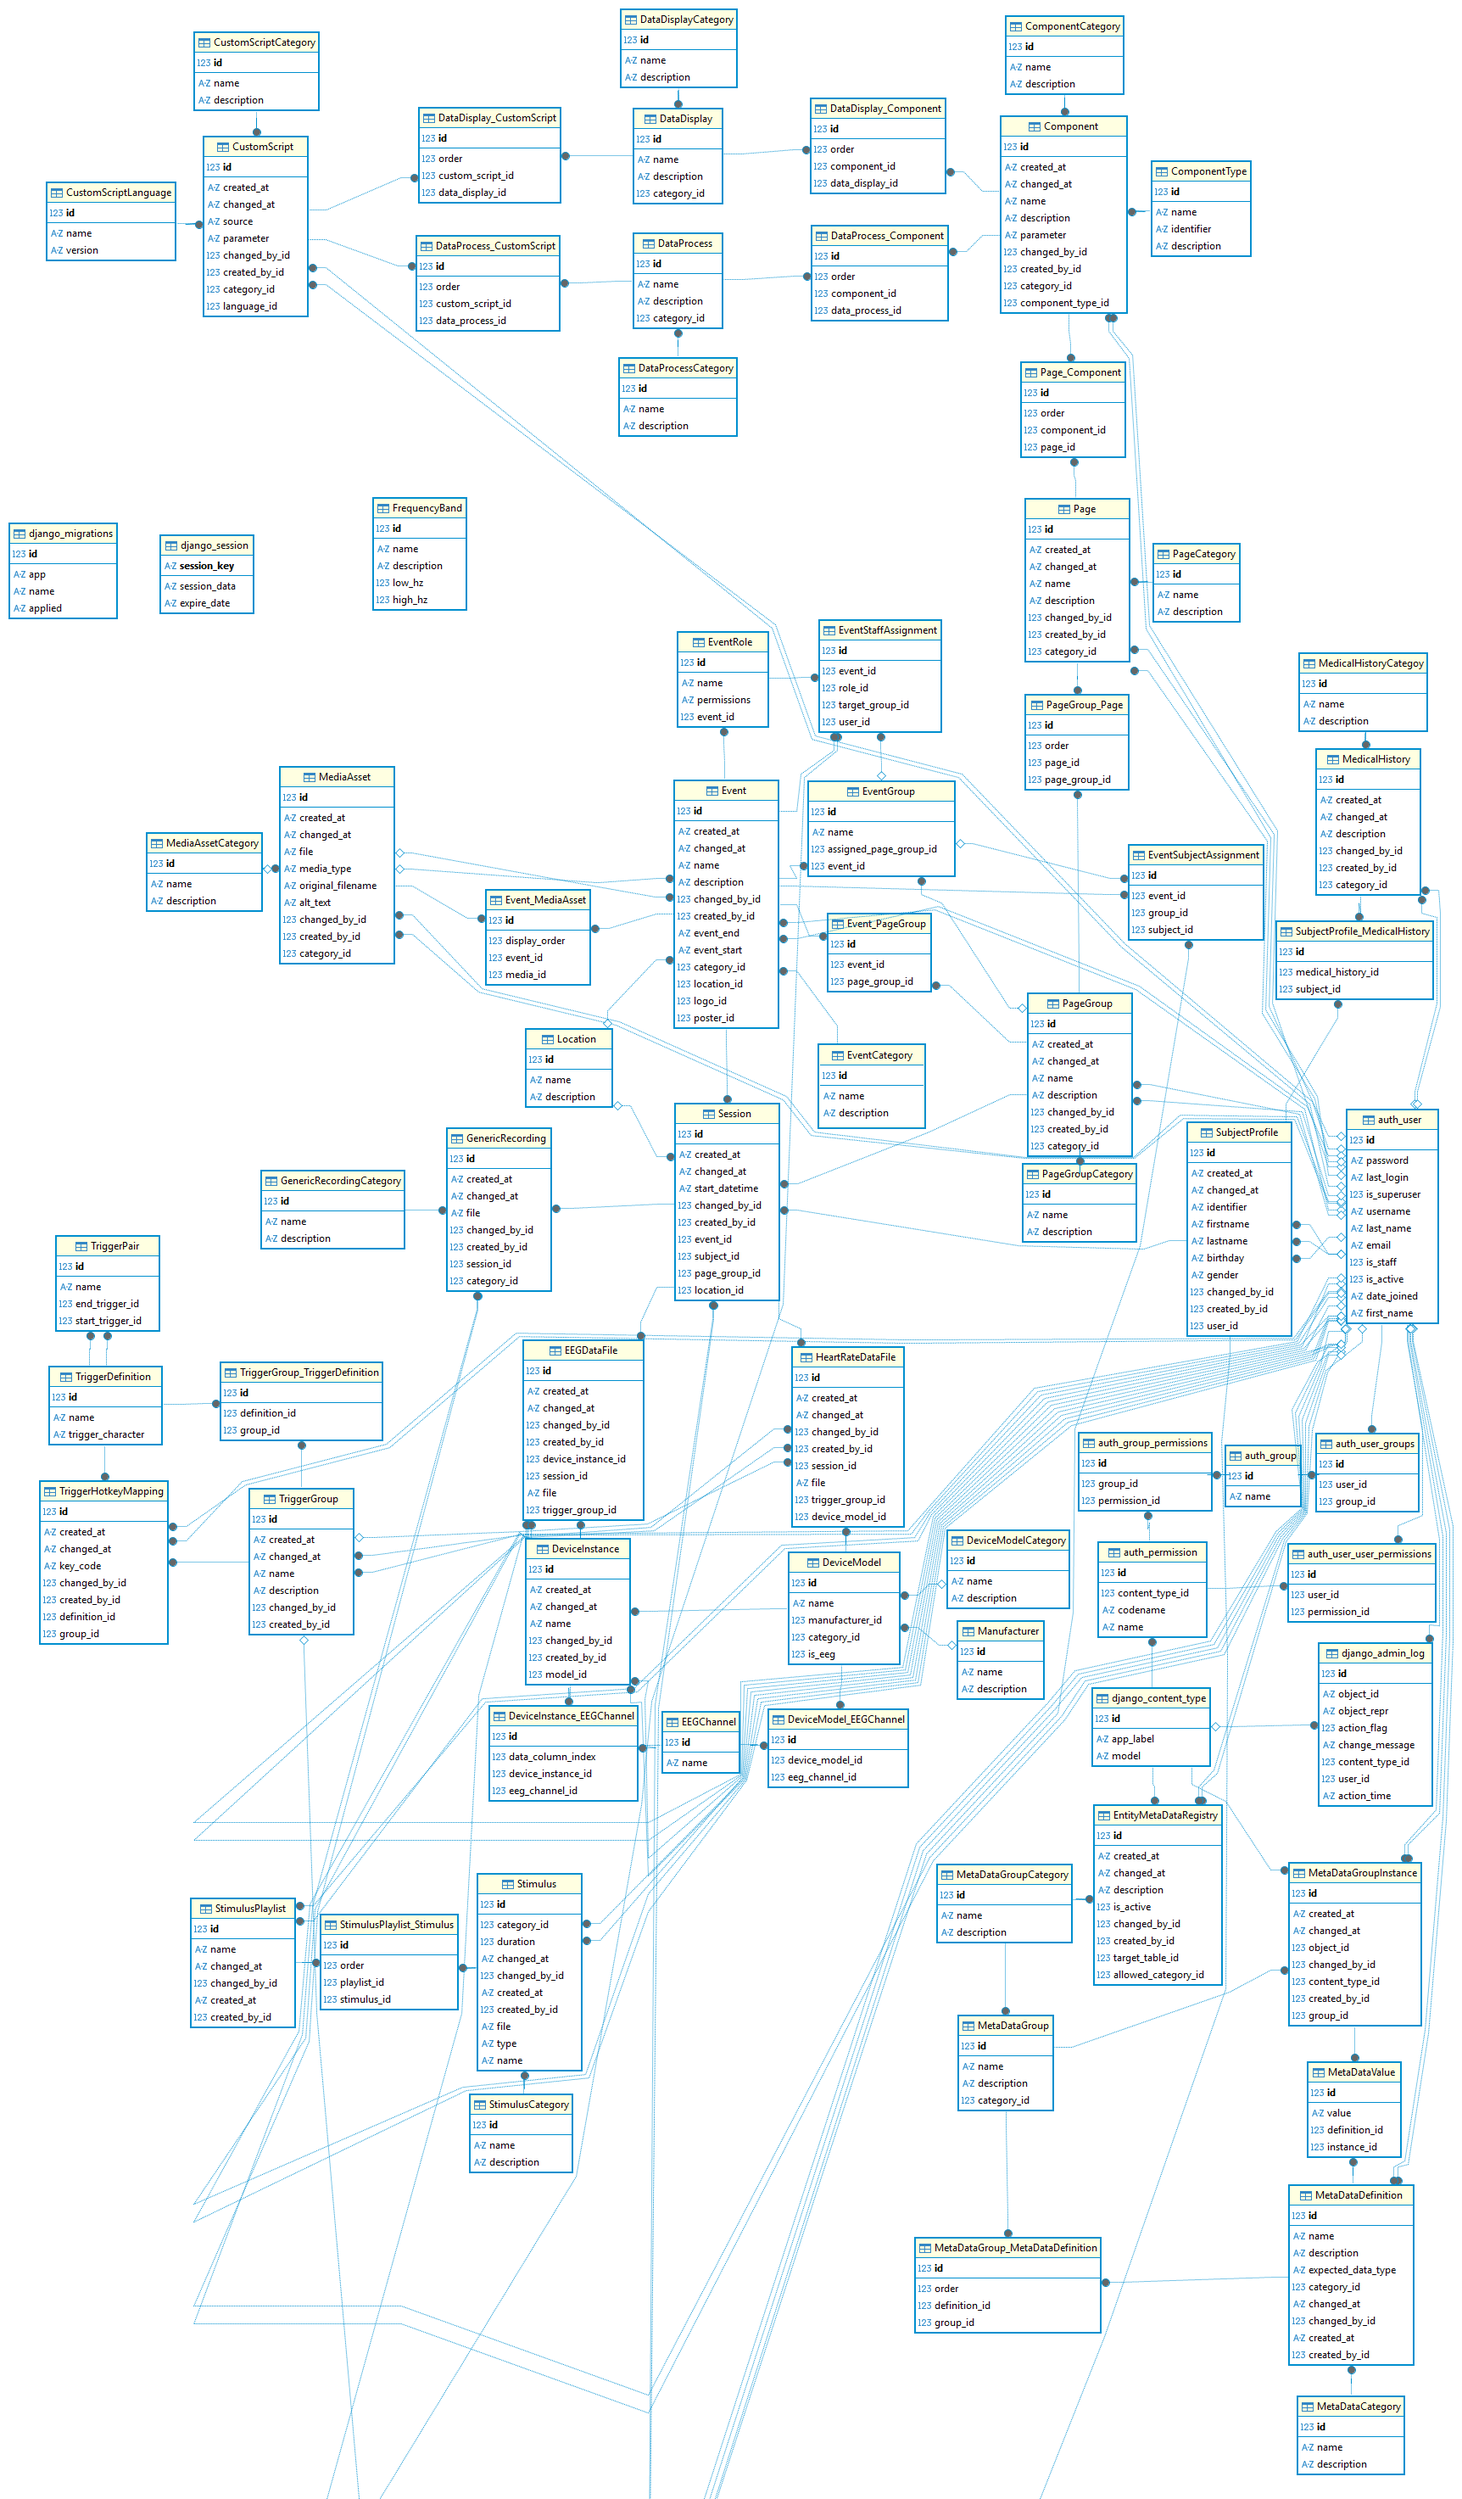
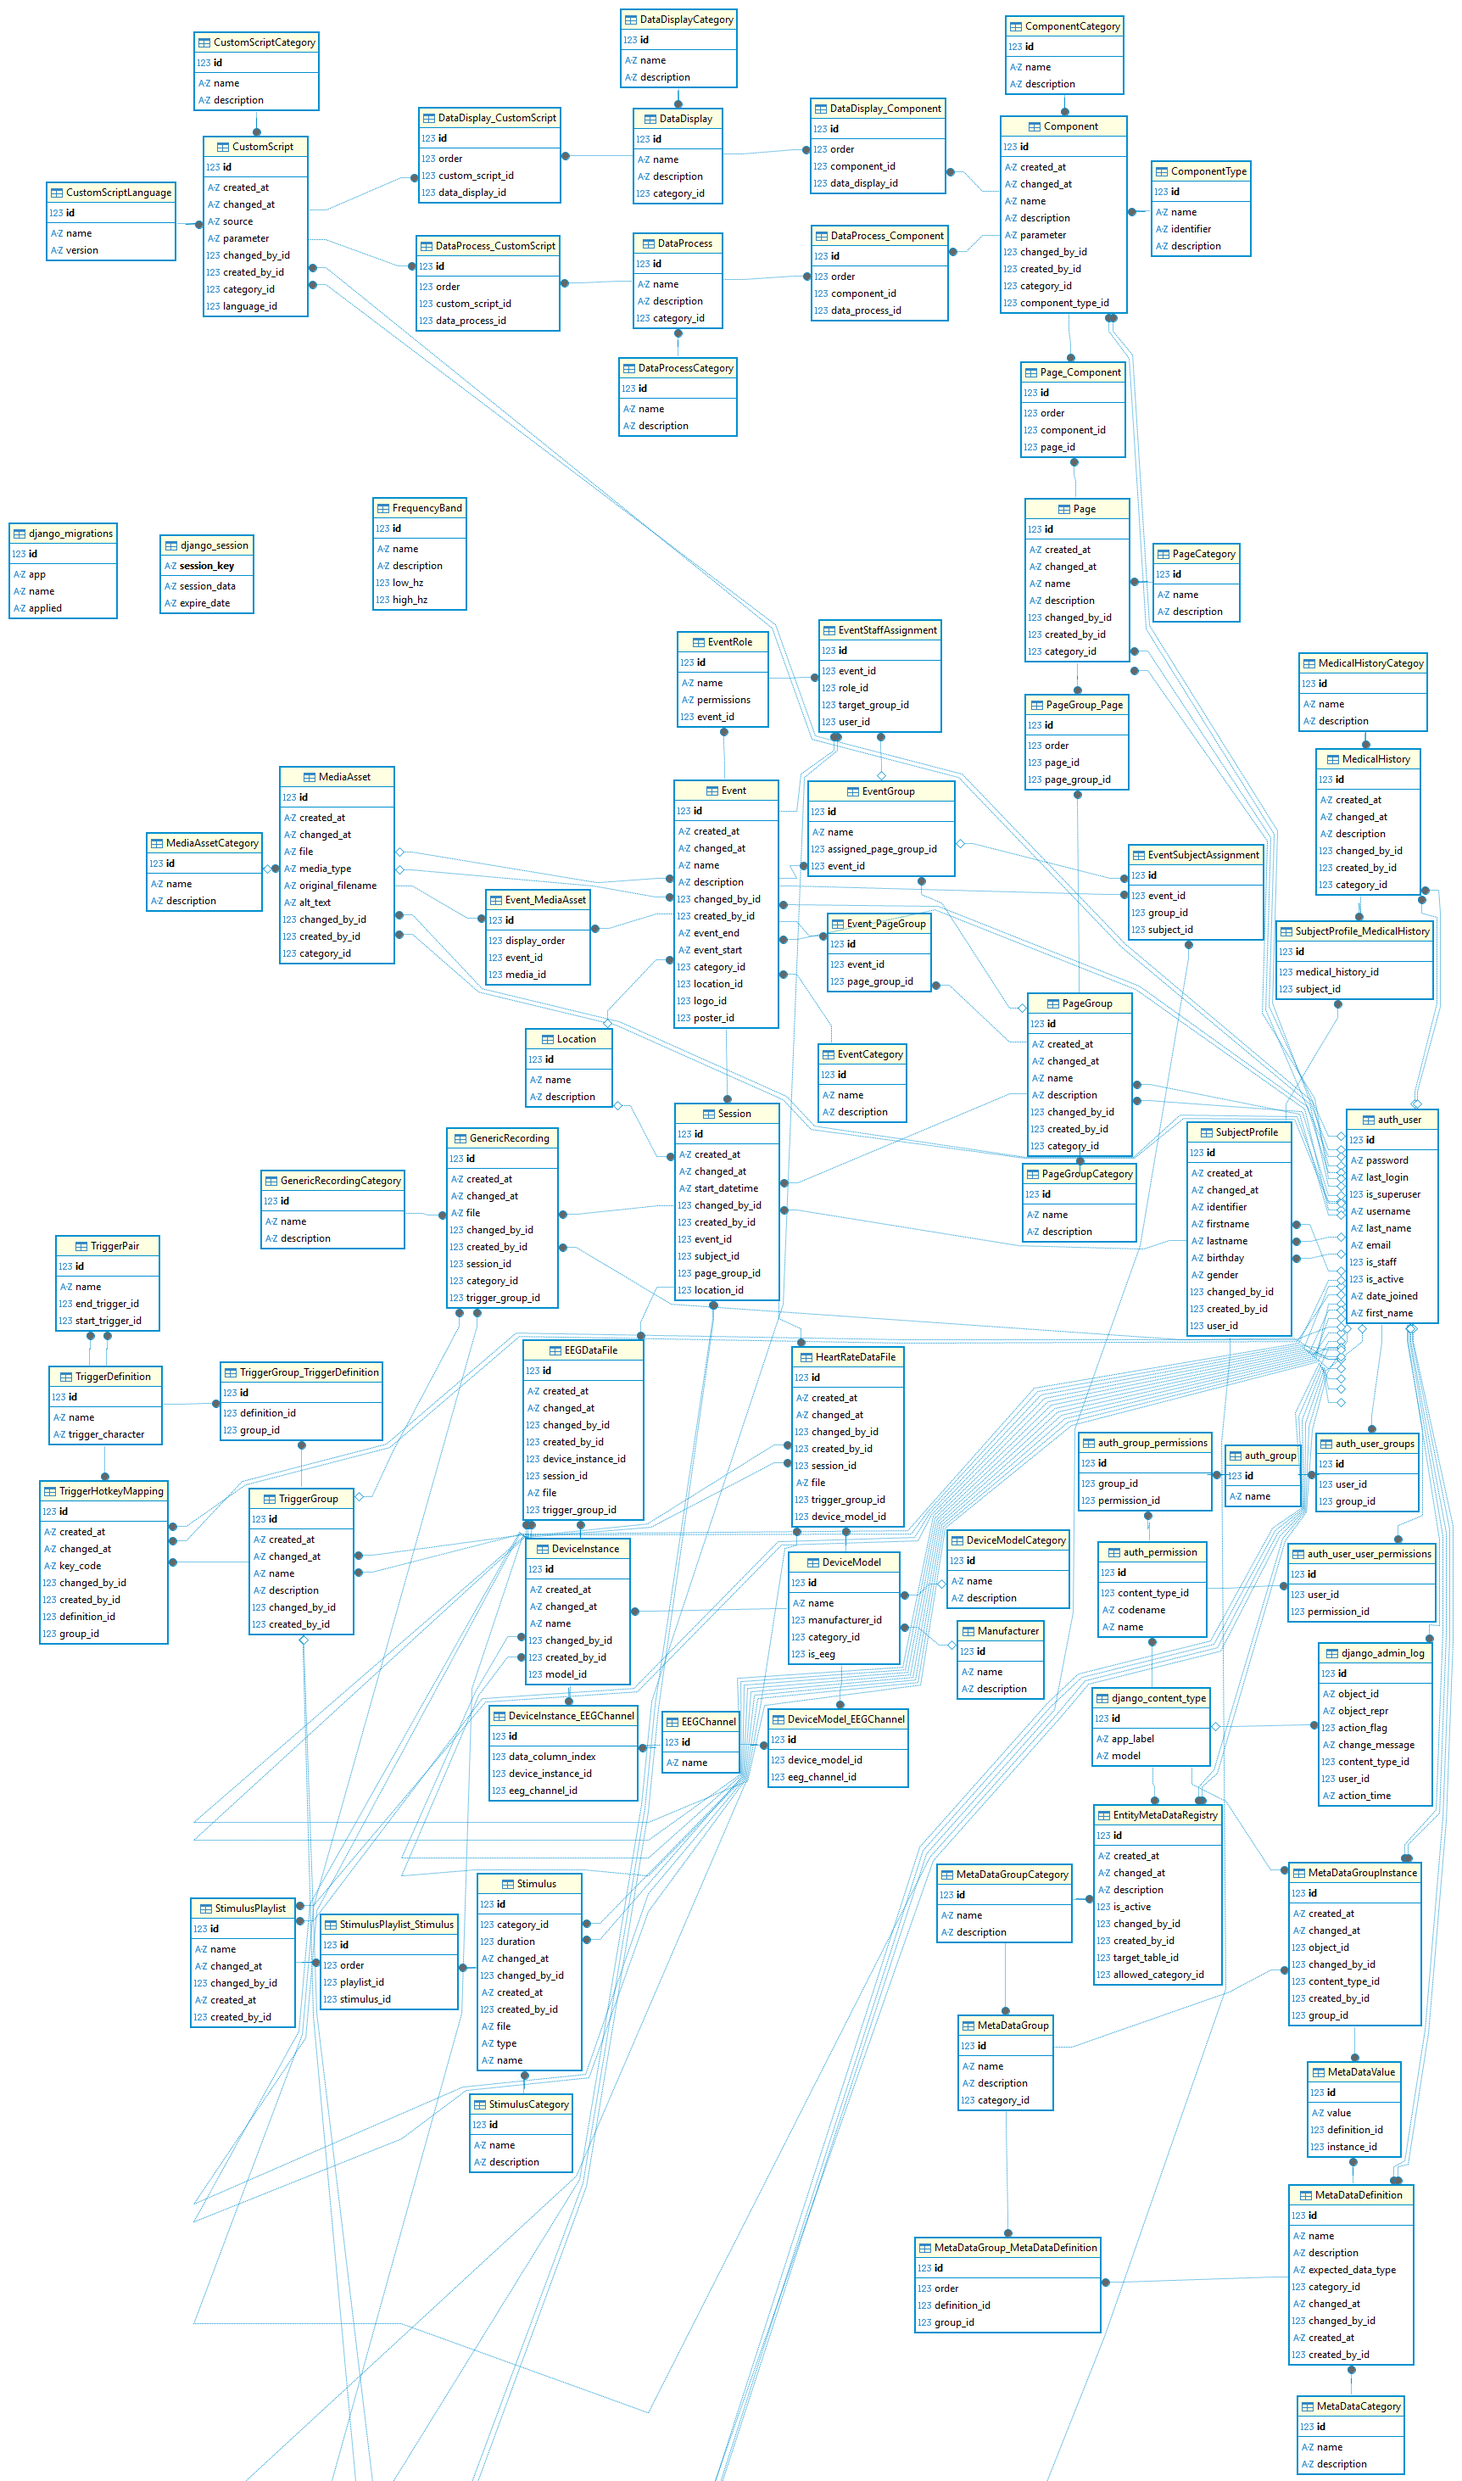
x

diff --git a/backend/eeg_api/migrations/0022_genericrecording_trigger_group.py b/backend/eeg_api/migrations/0022_genericrecording_trigger_group.py
@@ -1,0 +1,19 @@
+# Generated by Django 6.0.3 on 2026-03-26 14:30
+
+import django.db.models.deletion
+from django.db import migrations, models
+
+
+class Migration(migrations.Migration):
+
+    dependencies = [
+        ('eeg_api', '0021_subjectprofile_user_eventgroup_eventrole_and_more'),
+    ]
+
+    operations = [
+        migrations.AddField(
+            model_name='genericrecording',
+            name='trigger_group',
+            field=models.ForeignKey(blank=True, null=True, on_delete=django.db.models.deletion.SET_NULL, related_name='generic_recordings', to='eeg_api.triggergroup'),
+        ),
+    ]

diff --git a/backend/eeg_api/models/recordings.py b/backend/eeg_api/models/recordings.py
@@ -53,6 +53,14 @@ class GenericRecording(AuditBaseModel):
     category = models.ForeignKey(GenericRecordingCategory, on_delete=models.PROTECT)
     file = models.FileField(upload_to=generic_directory_path)
 
+    trigger_group = models.ForeignKey(
+        'TriggerGroup', 
+        on_delete=models.SET_NULL, 
+        null=True, 
+        blank=True, 
+        related_name='generic_recordings'
+    )
+
     class Meta:
         db_table = 'GenericRecording'
 
